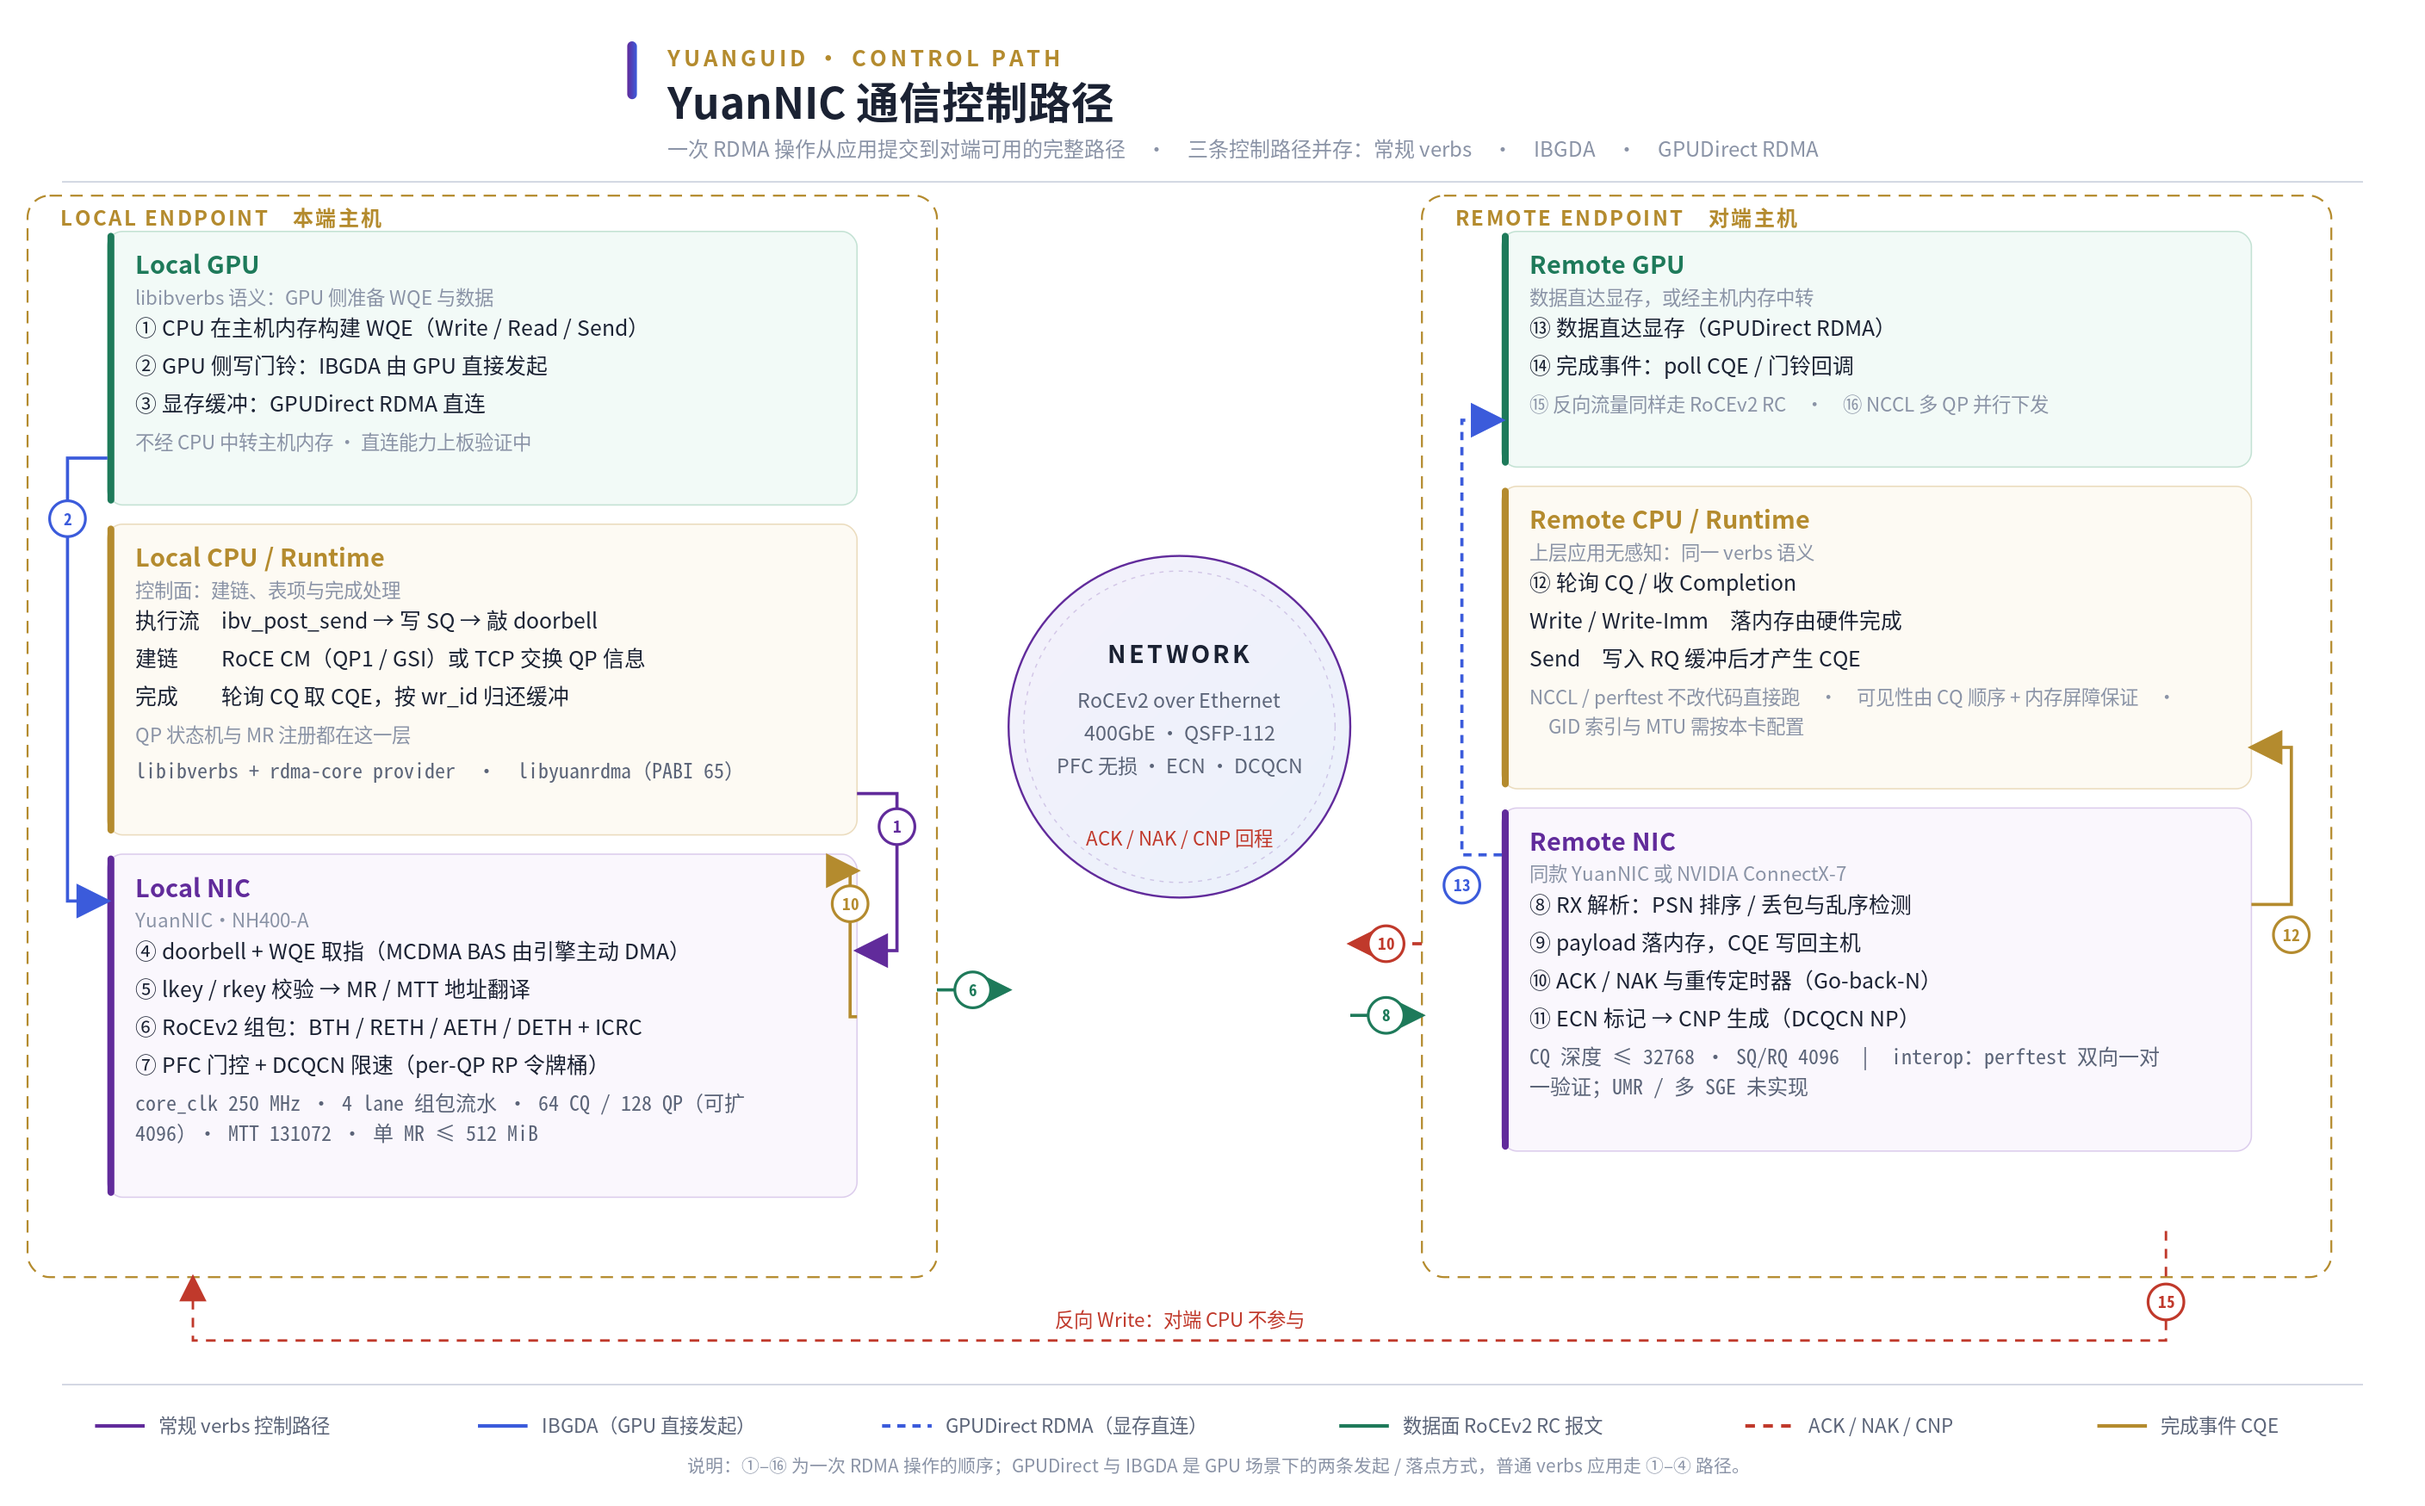
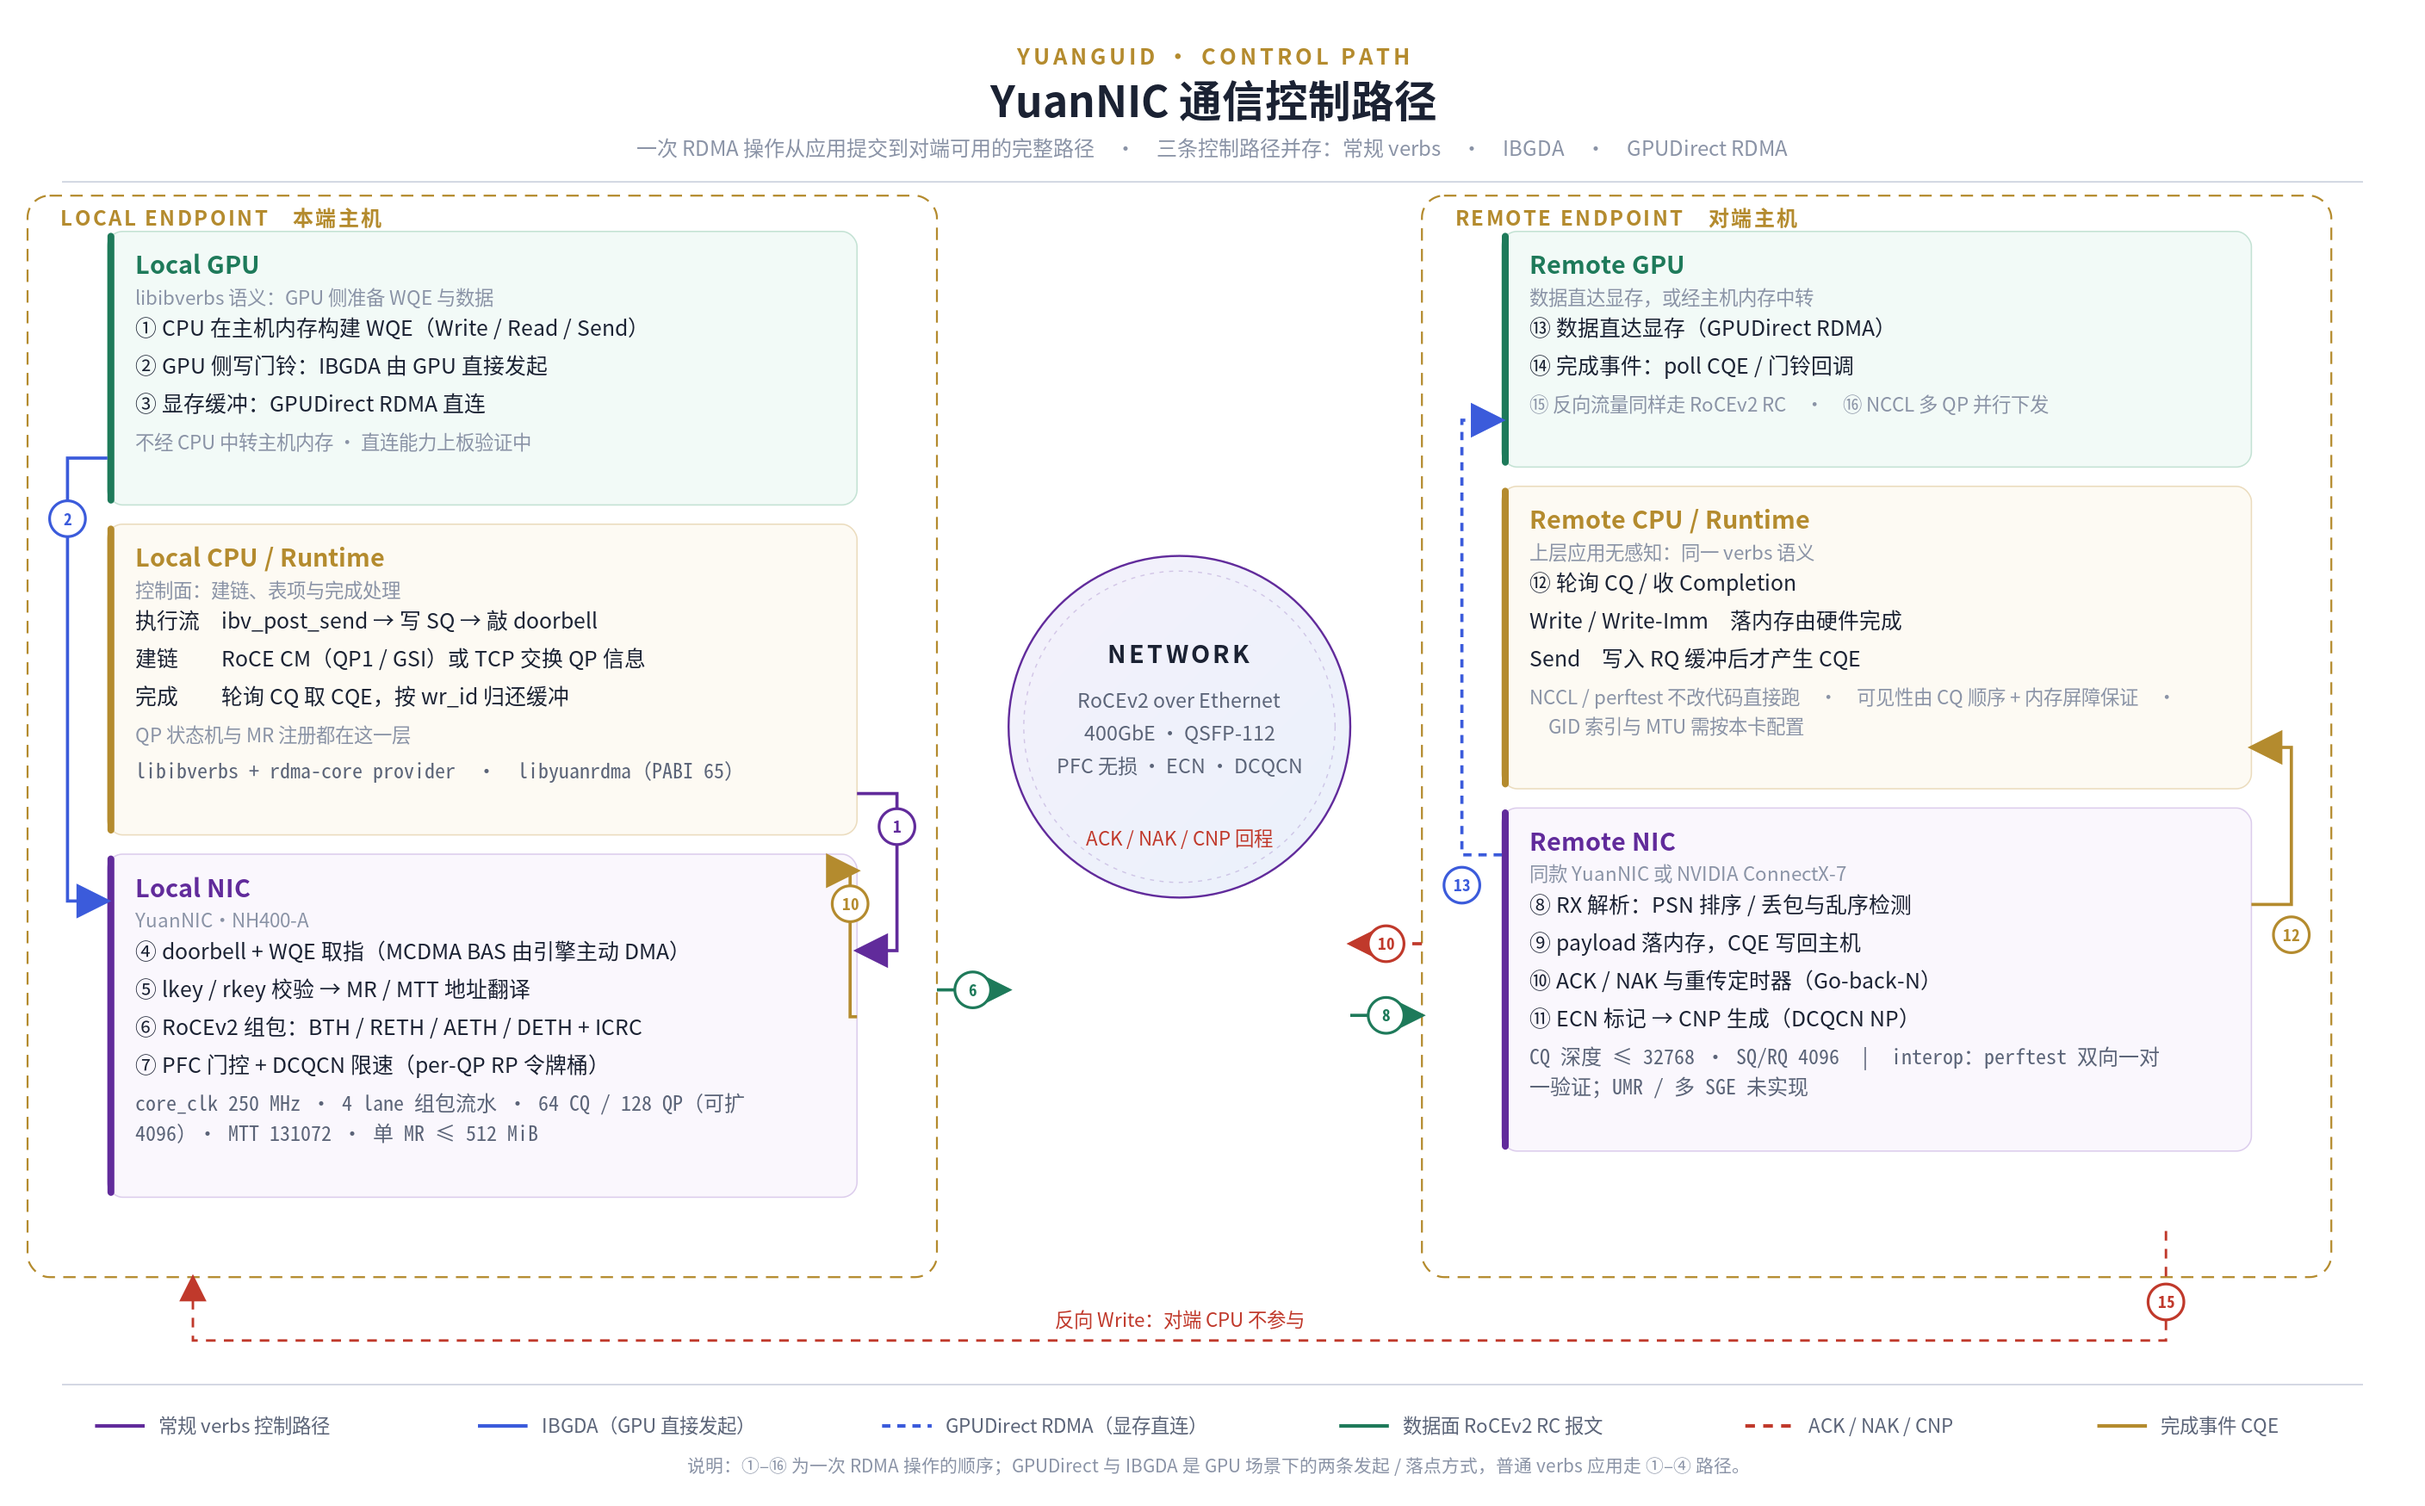
Link the company site and add contact details
Both mentions of the company in the opening paragraph now link to
www.yuangrid.com, so readers arriving from the repository can reach the
vendor directly.

The ecosystem section now gives an email address and a phone / WeChat
number instead of pointing only at Issues.

The diagram titles drop their accent bar and centre each of the three
lines on the canvas.

Changed region(s): [[0.25, 0.0309, 0.5938, 0.1235], [0.6875, 0.0926, 0.75, 0.1235], [0.625, 0.0926, 0.6562, 0.1235]]

diff --git a/README.en.md b/README.en.md
@@ -23,7 +23,7 @@
   <img src="https://img.shields.io/badge/RDMA--CORE-v66-612B9B?style=flat-square&labelColor=B48B2E" alt="RDMA-CORE v66">
 </p>
 
-YuanRDMA is an FPGA-based 400G RoCEv2 RDMA SmartNIC developed by YuanGrid, shipped as the **YuanNIC** product line. The RDMA transport engine is built natively into the FPGA, and the card appears to the host as a standard RDMA device: it plugs in through the standard `libibverbs` / `rdma-core` provider model, runs unmodified upstream perftest, and interoperates bidirectionally with NVIDIA ConnectX-7 NICs on the same network. It targets AI clusters, high-speed interconnect, low-latency storage and intelligent offload workloads.
+YuanRDMA is an FPGA-based 400G RoCEv2 RDMA SmartNIC developed by [YuanGrid](http://www.yuangrid.com), shipped as the **YuanNIC** product line. The RDMA transport engine is built natively into the FPGA, and the card appears to the host as a standard RDMA device: it plugs in through the standard `libibverbs` / `rdma-core` provider model, runs unmodified upstream perftest, and interoperates bidirectionally with NVIDIA ConnectX-7 NICs on the same network. It targets AI clusters, high-speed interconnect, low-latency storage and intelligent offload workloads.
 
 YuanNIC features hardware link timing optimization for high-speed interconnect and protocol offload, with wire-rate packet processing, ultra-low transport latency, 400G optical ports, programmable protocol offload, PFC lossless networking and DCQCN congestion control. The project covers the full hardware/software stack: RTL, firmware build, Linux kernel driver, user-space provider, simulation, and on-board test tooling.
 
@@ -33,7 +33,7 @@ YuanNIC features hardware link timing optimization for high-speed interconnect a
 
 YuanRDMA is developed in the open, and we want it to grow through collaboration. Research institutes, universities and colleges, equipment vendors, AI computing centres and test/certification bodies are welcome to join development and testing: where hardware is needed we provide cards and a test environment, and where realism is needed participants bring their own workloads and tune against them with us. Protocol extensions and validation of new mechanisms, congestion control and lossless-Ethernet tuning, driver and user-space stack improvements, interoperability testing and fault reproduction, and documentation and teaching material are all directions worth investing in together. Issues found, requirements raised and data produced flow back into this open line of development.
 
-Organisations and individuals interested in taking part are welcome to reach us through an Issue or by email.
+Organisations and individuals interested in taking part are welcome to reach us by email at hfli@yuangrid.com, or by phone / WeChat on 18362630238.
 
 ## Application Scenarios and Customers
 

diff --git a/README.md b/README.md
@@ -23,7 +23,7 @@
   <img src="https://img.shields.io/badge/RDMA--CORE-v66-612B9B?style=flat-square&labelColor=B48B2E" alt="RDMA-CORE v66">
 </p>
 
-YuanRDMA 是垣易科技（YuanGrid）研发的基于 FPGA 的 400G RoCEv2 RDMA 智能网卡，产品型号为 **YuanNIC**。它在 FPGA 中原生集成 RDMA 传输引擎，对主机呈现为一块标准 RDMA 设备：通过标准 `libibverbs` / `rdma-core` provider 接入，原版 perftest 不改代码即可运行，并与 NVIDIA ConnectX-7 网卡在同一网络中双向互通，面向 AI 集群、高速互联、低时延存储与智能卸载等场景。
+YuanRDMA 是[垣易科技](http://www.yuangrid.com)（[YuanGrid](http://www.yuangrid.com)）研发的基于 FPGA 的 400G RoCEv2 RDMA 智能网卡，产品型号为 **YuanNIC**。它在 FPGA 中原生集成 RDMA 传输引擎，对主机呈现为一块标准 RDMA 设备：通过标准 `libibverbs` / `rdma-core` provider 接入，原版 perftest 不改代码即可运行，并与 NVIDIA ConnectX-7 网卡在同一网络中双向互通，面向 AI 集群、高速互联、低时延存储与智能卸载等场景。
 
 YuanNIC 具备面向高速互联的硬件链路时序优化与协议卸载能力，支持线速报文处理、超低传输时延、400G 高速光口、可编程协议卸载、PFC 无损网络与 DCQCN 拥塞控制。项目覆盖从 RTL、固件构建、Linux 内核驱动、用户态 provider 到仿真验证与上板测试工具链的完整软硬件栈。
 
@@ -33,7 +33,7 @@ YuanNIC 具备面向高速互联的硬件链路时序优化与协议卸载能力
 
 YuanRDMA 以开源方式推进，也希望以合作共建的方式生长。我们欢迎科研院所、高等院校、设备厂商、智算中心、测评机构等一起参与研发与测试：需要硬件时提供板卡与测试环境，需要场景时由参与方带来真实负载一起调优；协议扩展与新机制验证、拥塞控制与无损以太调优、驱动与用户态软件栈完善、互通性测试与故障复现、文档与教学材料的建设，都是可以共同投入的方向。发现的问题、提出的需求、跑出的数据，都会回到这条开源主线。
 
-有意参与的单位或个人，欢迎通过 Issue 或邮件与我们联系。
+有意参与的单位或个人，欢迎通过邮件 hfli@yuangrid.com 或电话 / 微信 18362630238 与我们联系。
 
 ## 应用场景和主要客户
 
